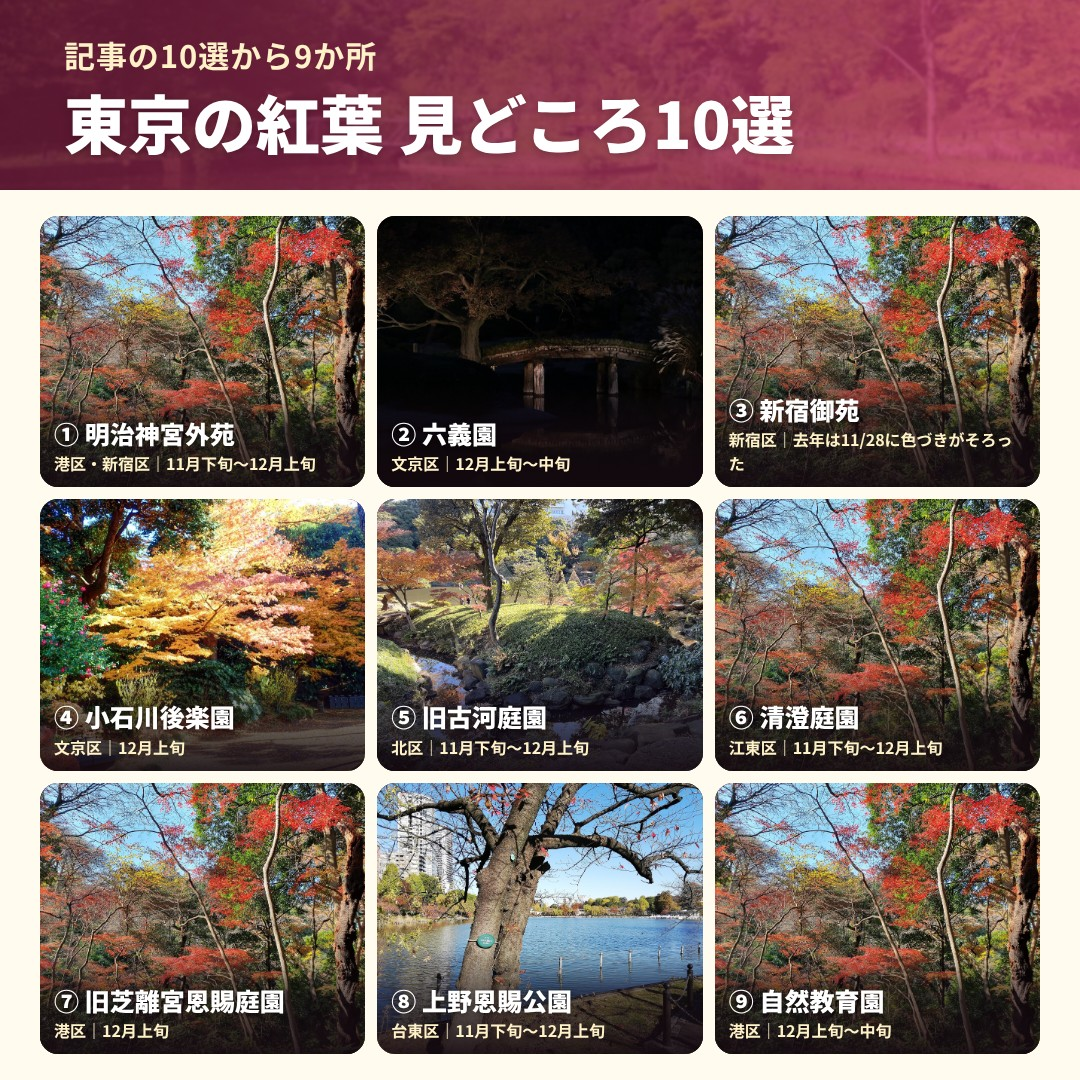
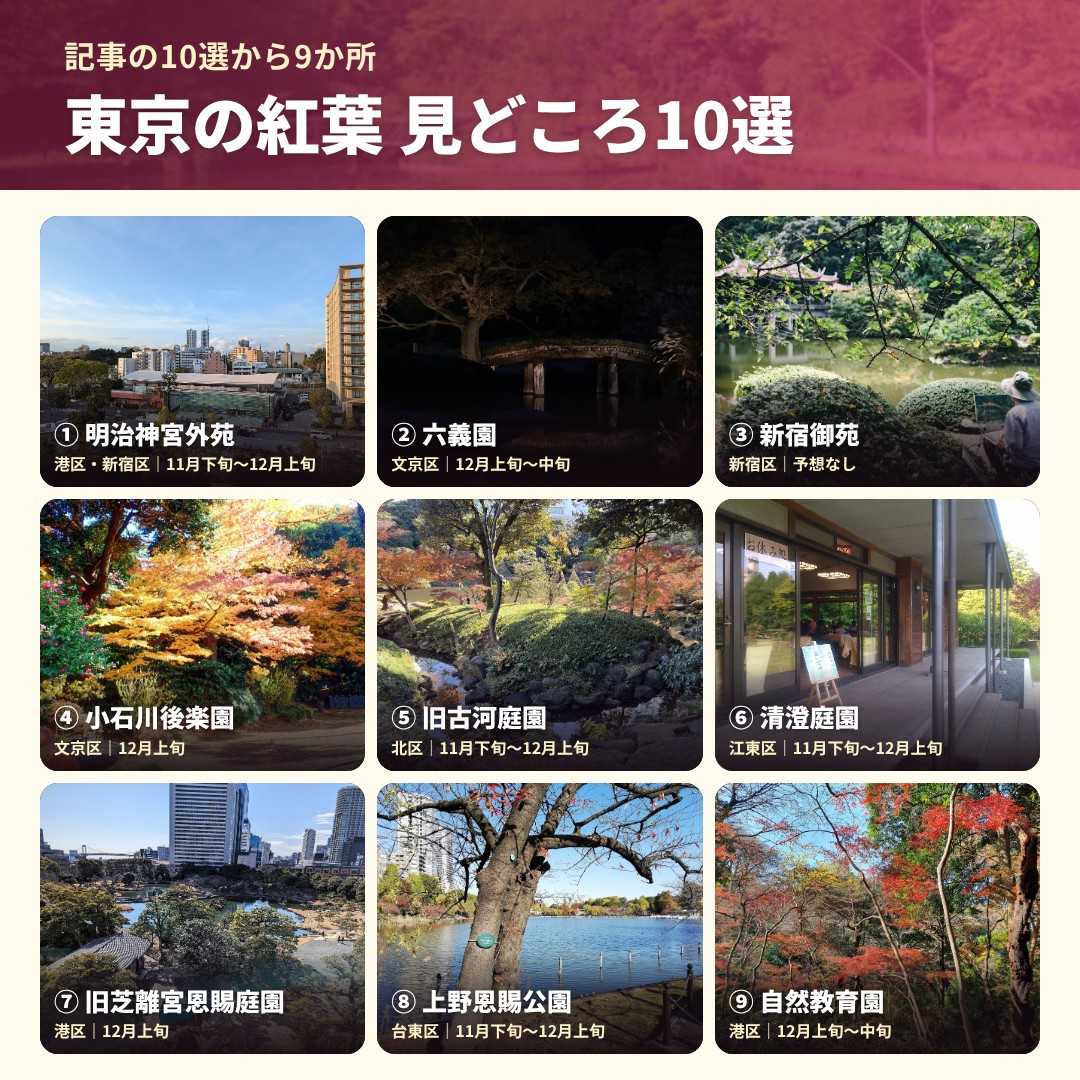
x: 紅葉の 10 選タイル画像（9 か所）を仮組み。紅葉期の CC0 が無い 4 か所は季節違いの CC0
Claude-Session: https://claude.ai/code/session_01H2JQqdMCeKNiMVUTrAyX2t

Changed region(s): [[0.6417, 0.1833, 0.9778, 0.7028], [0.0306, 0.7028, 0.3361, 0.9778], [0.0306, 0.1833, 0.3361, 0.4278]]

diff --git a/docs/session-handoff.md b/docs/session-handoff.md
@@ -68,6 +68,12 @@
 
 <!-- 新しい記録がこの下に追加される（新しいものが上） -->
 
+### 2026-10-11 — 紅葉の新コメント（10選から9か所のタイル画像）に対応中。紅葉期の CC0/PD 写真が Commons・Openverse・Unsplash(x260/x261: ロボット除け)・Flickr(x262) のどこにも無く、外苑・新宿御苑・清澄・旧芝離宮の4か所は季節違いの CC0 で仮組み（1b-spots.jpg）
+
+次のアクション:
+
+- [ ] 利用者に4か所の写真の扱いを選んでもらう
+
 ### 2026-10-11 — 紅葉の告知をレビューページのコメント5件どおり修正（冒頭を差し替え・要注意を独立・1枚目を東京の見どころ10選カレンダーに・六義園画像を削除・日光を番外編に）。コメントは done にした
 
 次のアクション:
